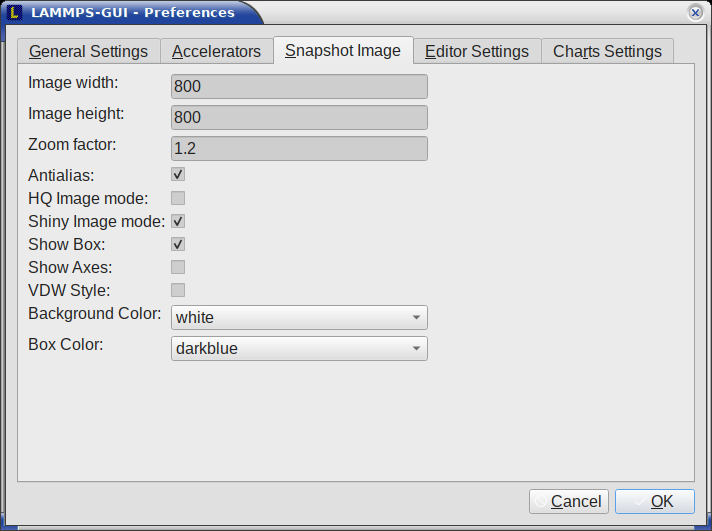
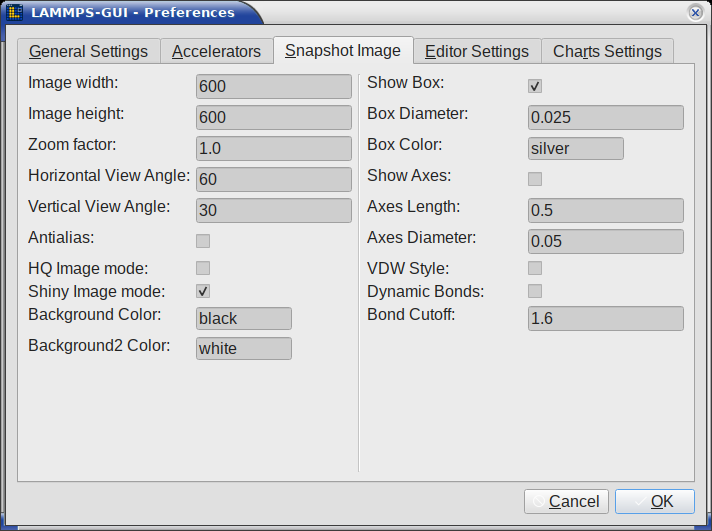
update documentation for recent changes to the preferences

diff --git a/doc/dialogs.rst b/doc/dialogs.rst
@@ -178,24 +178,37 @@ Snapshot Image:
 .. index:: image rendering
 
 This tab allows setting defaults for the snapshot images displayed in
-the :ref:`Image Viewer window <snapshot_viewer>`, such as its dimensions
-and the zoom factor applied.  The **Antialias** switch will render
-images with double the number of pixels for width and height and then
-smoothly scale the image back to the requested size.  This produces
-higher quality images with smoother edges at the expense of requiring
-more CPU time to render a four times size initial image.  The **HQ Image
-mode** option turns on "Screen Space Ambient Occlusion (SSAO)" mode when
-rendering images.  This is also more time consuming, but produces a more
-'spatial' representation of the system with shading of atoms by their
-depth.  The **Shiny Image mode** option will render objects with a shiny
-surface when enabled.  Otherwise, the surfaces will be matte.  The
-**Show Box** option selects whether the system box is drawn as a colored
-set of sticks.  Similarly, the **Show Axes** option selects whether a
-representation of the three system axes will be drawn as colored sticks.
-The **VDW Style** checkbox selects whether atoms are represented by
-space filling spheres when checked or by smaller spheres and sticks.
-Finally, there are a couple of drop down lists to select the background
-and box colors.
+the :ref:`Image Viewer window <snapshot_viewer>`, such as its
+dimensions, the zoom factor, and view angles.  The **Antialias** switch
+will render images with double the number of pixels for width and height
+and then smoothly scale the image back to the requested size.  This
+produces higher quality images with smoother edges at the expense of
+requiring more CPU time to render a four times size initial image.  The
+**HQ Image mode** option turns on "Screen Space Ambient Occlusion
+(SSAO)" mode when rendering images.  This is also more time consuming,
+but produces a more 'spatial' representation of the system with shading
+of atoms by their depth.  The **Shiny Image mode** option will render
+objects with a shiny surface when enabled.  Otherwise, the surfaces will
+be matte.  The **Show Box** option selects whether the system box is
+drawn as a colored set of sticks.  Furthermore, the diameter of the
+sticks and their color can be set. Similarly, the **Show Axes** option
+selects whether a representation of the three system axes will be drawn
+or not (as colored and labeled arrows).  In addition, the axes length
+and diameter can be set in fractions of the image size.  The **VDW
+Style** checkbox selects whether atoms are represented by space filling
+spheres when checked or by smaller spheres and sticks.  The **Dynamic
+Bonds** checkbox selects whether bonds between atoms shall be
+automatically determined from the atom distances (for instance to
+visualize simulations using force fields with implicit bonds), and the
+corresponding "Bond Cutoff" text field allow to set the cutoff used for
+that feature.  Finally, there are a couple of text fields to select the
+two **Background Colors**.  If the two colors differ, there will be a
+vertical background gradient starting with the "Background" color at the
+bottom and ending with the "Background2" color at the top.
+
+These settings correspond to the available settings for the LAMMPS `dump
+image and corresponding dump_modify commands
+<https://docs.lammps.org/dump_image.html>`_.
 
 Editor Settings:
 ^^^^^^^^^^^^^^^^
